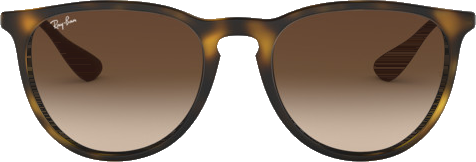
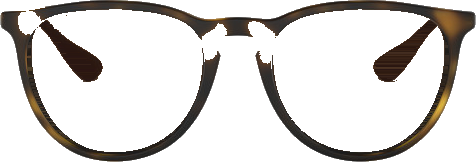
Transparent lens in PNG, gradient behind frame photo - no stub artifacts possible

diff --git a/static/js/app.js b/static/js/app.js
@@ -56,20 +56,21 @@ async function loadProducts() {
 function preloadGlassesImages() {
     for (const p of products) {
         const img = new Image();
-        img.onload = () => analyzeGlassesImage(p.id, img);
+        img.onload = () => analyzeGlassesImage(p, img);
         img.src = `/glasses/${p.image}`;
         glassesImages[p.id] = img;
     }
 }
 
-function analyzeGlassesImage(productId, img) {
+function analyzeGlassesImage(product, img) {
+    const productId = product.id;
     const w = img.naturalWidth, h = img.naturalHeight;
     const oc = new OffscreenCanvas(w, h);
     const octx = oc.getContext('2d');
     octx.drawImage(img, 0, 0);
     const data = octx.getImageData(0, 0, w, h).data;
 
-    // 1. Vertical center of mass → lens_y_frac
+    // 1. Vertical centre of mass of opaque pixels → lens_y_frac
     let totalW = 0, ySum = 0;
     for (let y = 0; y < h; y++)
         for (let x = 0; x < w; x++) {
@@ -90,7 +91,7 @@ function analyzeGlassesImage(productId, img) {
     let rightHinge = w - 1;
     for (let x = w - 1; x > w / 2; x--) { if (colH[x] > thr) { rightHinge = x; break; } }
 
-    // 3. Arm color: average RGB of arm stub pixels (outside hinges)
+    // 3. Arm colour: average RGB of arm stub pixels (outside hinges)
     let rS = 0, gS = 0, bS = 0, cnt = 0;
     for (let y = 0; y < h; y++)
         for (let x = 0; x < w; x++)
@@ -102,86 +103,71 @@ function analyzeGlassesImage(productId, img) {
         ? `rgb(${Math.round(rS/cnt)},${Math.round(gS/cnt)},${Math.round(bS/cnt)})`
         : '#222222';
 
-    // 4. Build lens mask via flood-fill from lens centres
-    // DARK_THR=200: sum(R+G+B)<=200 treated as dark frame border → flood-fill stops there
-    const DARK_THR = 200;
-    const fpW      = rightHinge - leftHinge;
-    const leftLcx  = Math.round(leftHinge + fpW * 0.26);
-    const rightLcx = Math.round(leftHinge + fpW * 0.74);
-    const lcy      = Math.round(h * 0.55);
-
-    const lensMask = new Uint8Array(w * h);
-    const ffVisited = new Uint8Array(w * h);
-
-    function floodFillLens(sx, sy) {
-        if (sy < 0 || sy >= h || sx < 0 || sx >= w) return;
-        const si = sy * w + sx;
-        const di = si * 4;
-        if (data[di + 3] < 128 || data[di] + data[di+1] + data[di+2] <= DARK_THR) return;
-        const queue = [[sy, sx]];
-        ffVisited[si] = 1;
-        while (queue.length) {
-            const [cy, cx] = queue.pop();
-            lensMask[cy * w + cx] = 1;
+    // 4. Build gradient lensCanvas from the interior transparent holes in the PNG.
+    //    Python (process_lenses.py) already made the lens area transparent.
+    //    BFS from image edges identifies exterior transparent pixels;
+    //    remaining transparent pixels = interior lens holes → fill with gradient.
+    let lensOC = null;
+    if (product.lens_top && product.lens_bot) {
+        const extMark = new Uint8Array(w * h);
+        const extBFS  = [];
+        // Seed boundary transparent pixels
+        for (let x = 0; x < w; x++) {
+            if (data[x * 4 + 3] < 128 && !extMark[x])
+                { extMark[x] = 1; extBFS.push(x); }
+            const bi = (h - 1) * w + x;
+            if (data[bi * 4 + 3] < 128 && !extMark[bi])
+                { extMark[bi] = 1; extBFS.push(bi); }
+        }
+        for (let y = 0; y < h; y++) {
+            if (data[y * w * 4 + 3] < 128 && !extMark[y * w])
+                { extMark[y * w] = 1; extBFS.push(y * w); }
+            const ri = y * w + (w - 1);
+            if (data[ri * 4 + 3] < 128 && !extMark[ri])
+                { extMark[ri] = 1; extBFS.push(ri); }
+        }
+        for (let qi = 0; qi < extBFS.length; qi++) {
+            const idx = extBFS[qi];
+            const cy = Math.floor(idx / w), cx = idx % w;
             for (const [dy, dx] of [[-1,0],[1,0],[0,-1],[0,1]]) {
                 const ny = cy+dy, nx = cx+dx;
                 if (ny < 0 || ny >= h || nx < 0 || nx >= w) continue;
                 const ni = ny * w + nx;
-                if (ffVisited[ni]) continue;
-                ffVisited[ni] = 1;
-                const ndi = ni * 4;
-                if (data[ndi+3] > 128 && data[ndi]+data[ndi+1]+data[ndi+2] > DARK_THR)
-                    queue.push([ny, nx]);
+                if (!extMark[ni] && data[ni * 4 + 3] < 128)
+                    { extMark[ni] = 1; extBFS.push(ni); }
             }
         }
+        // Interior holes = transparent AND not exterior-reachable
+        const lensMask = new Uint8Array(w * h);
+        let lensCount = 0;
+        for (let i = 0; i < w * h; i++)
+            if (data[i * 4 + 3] < 128 && !extMark[i]) { lensMask[i] = 1; lensCount++; }
+
+        if (lensCount > 0) {
+            let yMin = h, yMax = 0;
+            for (let y = 0; y < h; y++)
+                for (let x = 0; x < w; x++)
+                    if (lensMask[y * w + x]) { if (y < yMin) yMin = y; if (y > yMax) yMax = y; }
+
+            const topColor = product.lens_top;
+            const botColor = product.lens_bot;
+            const lensData = new Uint8ClampedArray(w * h * 4);
+            const lensRange = Math.max(1, yMax - yMin);
+            for (let y = 0; y < h; y++)
+                for (let x = 0; x < w; x++) {
+                    const i = y * w + x;
+                    if (!lensMask[i]) continue;
+                    const t  = Math.max(0, Math.min(1, (y - yMin) / lensRange));
+                    const di = i * 4;
+                    lensData[di]   = Math.round(topColor[0] * (1-t) + botColor[0] * t);
+                    lensData[di+1] = Math.round(topColor[1] * (1-t) + botColor[1] * t);
+                    lensData[di+2] = Math.round(topColor[2] * (1-t) + botColor[2] * t);
+                    lensData[di+3] = 255;
+                }
+            lensOC = new OffscreenCanvas(w, h);
+            lensOC.getContext('2d').putImageData(new ImageData(lensData, w, h), 0, 0);
+        }
     }
-    floodFillLens(leftLcx, lcy);
-    floodFillLens(rightLcx, lcy);
-
-    // 5. Sample authentic lens colour from the central strip (away from hinges/stubs)
-    let yMin = h, yMax = 0;
-    for (let y = 0; y < h; y++)
-        for (let x = leftHinge; x <= rightHinge; x++)
-            if (lensMask[y*w+x]) { if (y < yMin) yMin = y; if (y > yMax) yMax = y; }
-
-    const sampleX1 = Math.round(leftHinge + fpW * 0.35);
-    const sampleX2 = Math.round(leftHinge + fpW * 0.65);
-    const topBand  = Math.round(yMin + (yMax - yMin) * 0.3);
-    const botBand  = Math.round(yMin + (yMax - yMin) * 0.7);
-
-    let rT=0, gT=0, bT=0, cT=0, rB=0, gB=0, bB=0, cB=0;
-    for (let y = yMin; y <= topBand; y++)
-        for (let x = sampleX1; x <= sampleX2; x++) {
-            if (!lensMask[y*w+x]) continue;
-            const di = (y*w+x)*4;
-            rT += data[di]; gT += data[di+1]; bT += data[di+2]; cT++;
-        }
-    for (let y = botBand; y <= yMax; y++)
-        for (let x = sampleX1; x <= sampleX2; x++) {
-            if (!lensMask[y*w+x]) continue;
-            const di = (y*w+x)*4;
-            rB += data[di]; gB += data[di+1]; bB += data[di+2]; cB++;
-        }
-    const topColor = cT > 0 ? [rT/cT, gT/cT, bT/cT] : [200, 150, 60];
-    const botColor = cB > 0 ? [rB/cB, gB/cB, bB/cB] : [120,  80, 30];
-
-    // 6. Build gradient-filled lensCanvas: correct shape, clean gradient, no stub artefacts
-    const lensData = new Uint8ClampedArray(w * h * 4);
-    const lensRange = Math.max(1, yMax - yMin);
-    for (let y = 0; y < h; y++)
-        for (let x = 0; x < w; x++) {
-            const i = y*w+x;
-            if (!lensMask[i]) continue;
-            const t  = Math.max(0, Math.min(1, (y - yMin) / lensRange));
-            const di = i*4;
-            lensData[di]   = Math.round(topColor[0]*(1-t) + botColor[0]*t);
-            lensData[di+1] = Math.round(topColor[1]*(1-t) + botColor[1]*t);
-            lensData[di+2] = Math.round(topColor[2]*(1-t) + botColor[2]*t);
-            lensData[di+3] = 215; // slightly transparent — tinted lens feel
-        }
-
-    const lensOC = new OffscreenCanvas(w, h);
-    lensOC.getContext('2d').putImageData(new ImageData(lensData, w, h), 0, 0);
 
     glassesParams[productId] = {
         lens_y_frac,
@@ -456,27 +442,25 @@ function drawGlassesOverlay(landmarks, m) {
     ctx.beginPath(); ctx.moveTo(leftHingeX,  leftHingeY);  ctx.lineTo(m.leftTemple.x,  m.leftTemple.y);  ctx.stroke();
     ctx.restore();
 
-    // --- FRAME PHOTO drawn on top (covers arm roots, full image no clip) ---
+    // --- LENS GRADIENT drawn BEFORE frame photo ---
+    // Python made the lens area transparent in the PNG; the gradient fills those holes.
+    // Drawing it first means the frame photo (drawn next) covers the frame ring but
+    // lets the gradient show through the transparent lens area.
+    const lensOC = params.lensCanvas;
+    if (lensOC) {
+        ctx.save();
+        ctx.translate(centerX, centerY);
+        ctx.rotate(angle);
+        ctx.drawImage(lensOC, -drawWidth / 2, imgTop, drawWidth, drawHeight);
+        ctx.restore();
+    }
+
+    // --- FRAME PHOTO on top (transparent lens → gradient shows through) ---
     ctx.save();
     ctx.translate(centerX, centerY);
     ctx.rotate(angle);
     ctx.drawImage(img, -drawWidth / 2, imgTop, drawWidth, drawHeight);
     ctx.restore();
-
-    // --- LENS: use flood-fill extracted lensCanvas ---
-    const lensOC = params.lensCanvas;
-    const isSunglasses = (product.type === 'sunglasses' || product.type === 'cat-eye');
-    if (lensOC) {
-        ctx.save();
-        ctx.translate(centerX, centerY);
-        ctx.rotate(angle);
-        if (!isSunglasses) {
-            // Optical: erase lens area so face shows through
-            ctx.globalCompositeOperation = 'destination-out';
-        }
-        ctx.drawImage(lensOC, -drawWidth / 2, imgTop, drawWidth, drawHeight);
-        ctx.restore();
-    }
 }
 
 function drawDefaultOverlay(m) {

diff --git a/process_lenses.py b/process_lenses.py
@@ -1,0 +1,144 @@
+"""
+Process existing glasses PNGs: flood-fill lens area from centre → make transparent.
+Prints sampled lens colours for products.json.
+"""
+from pathlib import Path
+from collections import deque
+import json
+import numpy as np
+from PIL import Image
+
+BASE = Path(__file__).resolve().parent
+PRODUCTS_FILE = BASE / "products.json"
+
+DARK_THR = 200  # sum(R+G+B) <= this = dark border pixel, flood-fill stops here
+
+
+def process_png(path: Path) -> tuple[list, list] | None:
+    img = Image.open(path).convert("RGBA")
+    rgba = np.array(img, dtype=np.uint8)
+    h, w = rgba.shape[:2]
+    opaque = rgba[:, :, 3] > 128
+
+    # Hinge detection (same algorithm as JS analyzeGlassesImage)
+    col_h = opaque.sum(axis=0)
+    max_h = int(col_h.max())
+    if max_h == 0:
+        print("  No opaque pixels, skipping.")
+        return None
+
+    thr = max_h * 0.5
+    left_hinge  = next((x for x in range(w // 2)       if col_h[x] > thr), 0)
+    right_hinge = next((x for x in range(w - 1, w // 2, -1) if col_h[x] > thr), w - 1)
+    fp_w = right_hinge - left_hinge
+
+    left_lcx  = int(left_hinge + fp_w * 0.26)
+    right_lcx = int(left_hinge + fp_w * 0.74)
+    lcy = int(h * 0.55)
+    print(f"  size={w}x{h}  hinges={left_hinge}..{right_hinge}  "
+          f"centres=({left_lcx},{lcy}) ({right_lcx},{lcy})")
+
+    # Flood-fill from lens centres through non-dark opaque pixels
+    lens_mask = np.zeros((h, w), dtype=bool)
+    visited   = np.zeros((h, w), dtype=bool)
+
+    def flood_fill(sx: int, sy: int):
+        if not (0 <= sx < w and 0 <= sy < h):
+            return
+        if not opaque[sy, sx]:
+            return
+        if int(rgba[sy, sx, 0]) + int(rgba[sy, sx, 1]) + int(rgba[sy, sx, 2]) <= DARK_THR:
+            return
+        q = deque([(sy, sx)])
+        visited[sy, sx] = True
+        while q:
+            cy, cx = q.popleft()
+            lens_mask[cy, cx] = True
+            for dy, dx in [(-1, 0), (1, 0), (0, -1), (0, 1)]:
+                ny, nx = cy + dy, cx + dx
+                if 0 <= ny < h and 0 <= nx < w and not visited[ny, nx]:
+                    visited[ny, nx] = True
+                    if opaque[ny, nx]:
+                        s = int(rgba[ny, nx, 0]) + int(rgba[ny, nx, 1]) + int(rgba[ny, nx, 2])
+                        if s > DARK_THR:
+                            q.append((ny, nx))
+
+    flood_fill(left_lcx, lcy)
+    flood_fill(right_lcx, lcy)
+    print(f"  lens pixels found: {lens_mask.sum()}")
+
+    if not lens_mask.any():
+        print("  WARNING: no lens pixels found — skipping transparency step.")
+        return None
+
+    # Sample lens colours from central strip BEFORE making transparent
+    sX1 = int(left_hinge + fp_w * 0.35)
+    sX2 = int(left_hinge + fp_w * 0.65)
+    ys = np.argwhere(lens_mask)[:, 0]
+    y_min, y_max = int(ys.min()), int(ys.max())
+    lens_h = max(1, y_max - y_min)
+    top_band = y_min + int(lens_h * 0.3)
+    bot_band = y_min + int(lens_h * 0.7)
+
+    def mean_rgb(region_mask, region_rgba):
+        pix = region_rgba[region_mask]
+        if len(pix) == 0:
+            return None
+        return [int(round(float(c))) for c in pix[:, :3].mean(axis=0)]
+
+    top_color = mean_rgb(
+        lens_mask[y_min:top_band + 1, sX1:sX2 + 1],
+        rgba[y_min:top_band + 1, sX1:sX2 + 1],
+    ) or [200, 150, 60]
+
+    bot_color = mean_rgb(
+        lens_mask[bot_band:y_max + 1, sX1:sX2 + 1],
+        rgba[bot_band:y_max + 1, sX1:sX2 + 1],
+    ) or [120, 80, 30]
+
+    print(f"  top colour: {top_color}")
+    print(f"  bot colour: {bot_color}")
+
+    # Make the lens area fully transparent
+    rgba[lens_mask, 3] = 0
+    Image.fromarray(rgba, "RGBA").save(path, "PNG")
+    print(f"  Saved: {path.name}")
+    return top_color, bot_color
+
+
+def main():
+    products = json.loads(PRODUCTS_FILE.read_text(encoding="utf-8"))
+    changed = False
+
+    for p in products:
+        png_path = BASE / "static" / "glasses" / p["image"]
+        if not png_path.exists():
+            print(f"\n[{p['id']}] PNG not found: {png_path}")
+            continue
+
+        print(f"\n[{p['id']}]")
+        result = process_png(png_path)
+
+        if result is not None:
+            top_color, bot_color = result
+            p["lens_top"] = top_color
+            p["lens_bot"] = bot_color
+            changed = True
+        elif p.get("type") == "optical":
+            # Optical: clear lens, no tint needed
+            p["lens_top"] = None
+            p["lens_bot"] = None
+            changed = True
+
+    if changed:
+        PRODUCTS_FILE.write_text(
+            json.dumps(products, ensure_ascii=False, indent=2),
+            encoding="utf-8",
+        )
+        print(f"\nUpdated {PRODUCTS_FILE}")
+
+    print("\nDone.")
+
+
+if __name__ == "__main__":
+    main()
